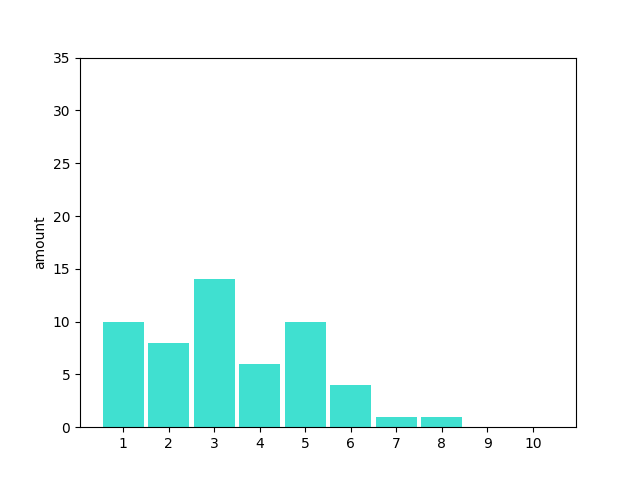
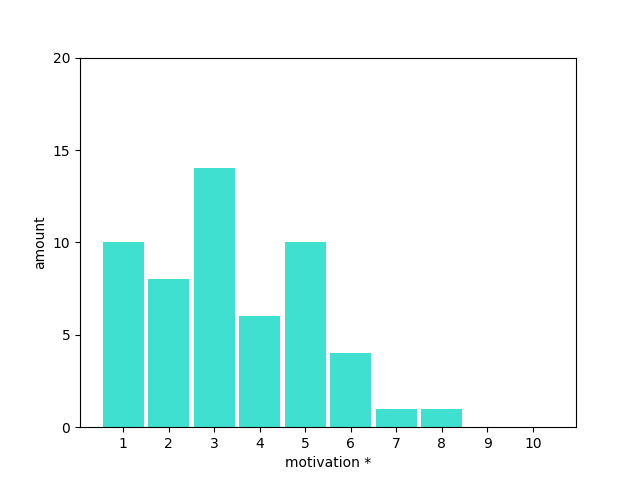
edited histograms (labels etc.)

diff --git a/create_histograms.py b/create_histograms.py
@@ -34,6 +34,8 @@ def create_histogram(which_histogram):
         # plt.xticks(np.arange(9,61,1))
         ax.set_xticks([0, 5, 10, 15, 20, 25, 30, 35, 40, 45, 50, 55, 60, 65])
         ax.set_yticks([0, 2, 4, 6, 8, 10, 12, 14, 16, 18, 20, 22])
+        ax.set_ylabel('amount')
+        ax.set_xlabel('age')
 
         plt.savefig('diagrams/histograms/age_histogram.png')
 
@@ -54,6 +56,10 @@ def create_histogram(which_histogram):
         # plt.xticks(np.arange(9,61,1))
         ax.set_xticklabels(['in the morning', 'at noon', 'in the\nafternoon', 'in the\nevening', 'at night'])
         ax.set_yticks([0, 5, 10, 15, 20, 25, 30, 35, 40, 45, 50, 55, 60, 65, 70])
+        ax.set_ylabel('amount')
+        ax.set_xlabel('part of the day')
+        box = ax.get_position()
+        ax.set_position([box.x0, box.y0 + box.height * 0.1, box.width, box.height * 0.9])
 
         plt.savefig('diagrams/histograms/time_book_histogram.png')
 
@@ -68,6 +74,10 @@ def create_histogram(which_histogram):
         # plt.xticks(np.arange(9,61,1))
         ax.set_xticklabels(['in the morning', 'at noon', 'in the\nafternoon', 'in the\nevening', 'at night'])
         ax.set_yticks([0, 5, 10, 15, 20, 25, 30, 35, 40, 45, 50, 55, 60, 65, 70])
+        ax.set_ylabel('amount')
+        ax.set_xlabel('part of the day')
+        box = ax.get_position()
+        ax.set_position([box.x0, box.y0 + box.height * 0.1, box.width, box.height * 0.9])
 
         plt.savefig('diagrams/histograms/time_movie_histogram.png')
 
@@ -92,6 +102,9 @@ def create_histogram(which_histogram):
         ax.set_xticklabels(['never\n(1)', 'seldom\n(2)', 'sometimes\n(3)', 'often\n(4)', 'very often\n(5)'])
         ax.set_yticks([0, 5, 10, 15, 20, 25, 30, 35])
         ax.set_ylabel('amount')
+        ax.set_xlabel('frequency *')
+        box = ax.get_position()
+        ax.set_position([box.x0, box.y0 + box.height * 0.1, box.width, box.height * 0.9])
 
         plt.savefig('diagrams/histograms/symptoms_book_histogram.png')
 
@@ -110,6 +123,9 @@ def create_histogram(which_histogram):
         ax.set_xticklabels(['never\n(1)', 'seldom\n(2)', 'sometimes\n(3)', 'often\n(4)', 'very often\n(5)'])
         ax.set_yticks([0, 5, 10, 15, 20, 25, 30, 35])
         ax.set_ylabel('amount')
+        ax.set_xlabel('frequency *')
+        box = ax.get_position()
+        ax.set_position([box.x0, box.y0 + box.height * 0.1, box.width, box.height * 0.9])
 
         plt.savefig('diagrams/histograms/symptoms_movie_histogram.png')
 
@@ -134,6 +150,9 @@ def create_histogram(which_histogram):
         ax.set_xticklabels(['never\n(1)', 'seldom\n(2)', 'sometimes\n(3)', 'often\n(4)', 'very often\n(5)'])
         ax.set_yticks([0, 5, 10, 15, 20, 25, 30, 35])
         ax.set_ylabel('amount')
+        ax.set_xlabel('frequency *')
+        box = ax.get_position()
+        ax.set_position([box.x0, box.y0 + box.height * 0.1, box.width, box.height * 0.9])
 
         plt.savefig('diagrams/histograms/snacks_book_histogram.png')
 
@@ -152,6 +171,9 @@ def create_histogram(which_histogram):
         ax.set_xticklabels(['never\n(1)', 'seldom\n(2)', 'sometimes\n(3)', 'often\n(4)', 'very often\n(5)'])
         ax.set_yticks([0, 5, 10, 15, 20, 25, 30, 35])
         ax.set_ylabel('amount')
+        ax.set_xlabel('frequency *')
+        box = ax.get_position()
+        ax.set_position([box.x0, box.y0 + box.height * 0.1, box.width, box.height * 0.9])
 
         plt.savefig('diagrams/histograms/snacks_movie_histogram.png')
 
@@ -174,8 +196,9 @@ def create_histogram(which_histogram):
         # plt.xticks(np.arange(9,61,1))
         ax.set_xticks([1, 2, 3, 4, 5, 6, 7, 8, 9, 10])
         ax.set_xticklabels(['1', '2', '3', '4', '5', '6','7', '8', '9', '10'])
-        ax.set_yticks([0, 5, 10, 15, 20, 25, 30, 35])
+        ax.set_yticks([0, 5, 10, 15, 20])
         ax.set_ylabel('amount')
+        ax.set_xlabel('motivation *')
 
         plt.savefig('diagrams/histograms/motivation_book_histogram.png')
 
@@ -192,8 +215,9 @@ def create_histogram(which_histogram):
         # plt.xticks(np.arange(9,61,1))
         ax.set_xticks([1, 2, 3, 4, 5, 6, 7, 8, 9, 10])
         ax.set_xticklabels(['1', '2', '3', '4', '5', '6','7', '8', '9', '10'])
-        ax.set_yticks([0, 5, 10, 15, 20, 25, 30, 35])
+        ax.set_yticks([0, 5, 10, 15, 20])
         ax.set_ylabel('amount')
+        ax.set_xlabel('motivation *')
 
         plt.savefig('diagrams/histograms/motivation_movie_histogram.png')
 
@@ -202,10 +226,10 @@ def create_histogram(which_histogram):
 
 
 def main():
-    # create_histogram('age')
-    # create_histogram('time')
-    # create_histogram('symptoms')
-    # create_histogram('snacks')
+    create_histogram('age')
+    create_histogram('time')
+    create_histogram('symptoms')
+    create_histogram('snacks')
     create_histogram('motivation')
 
 
